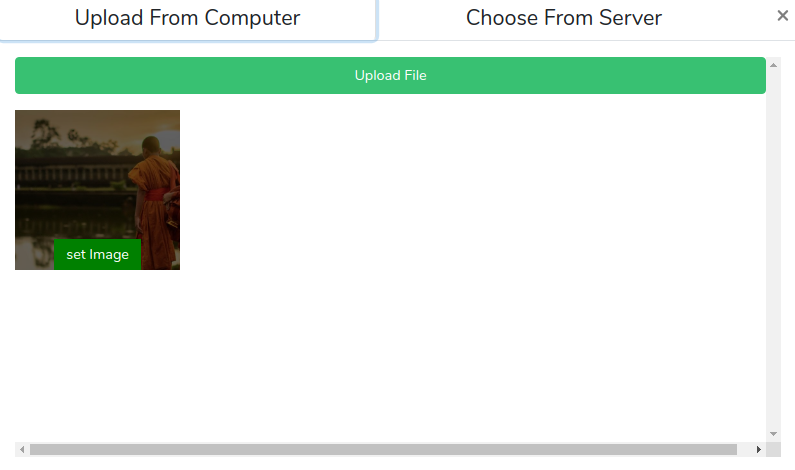
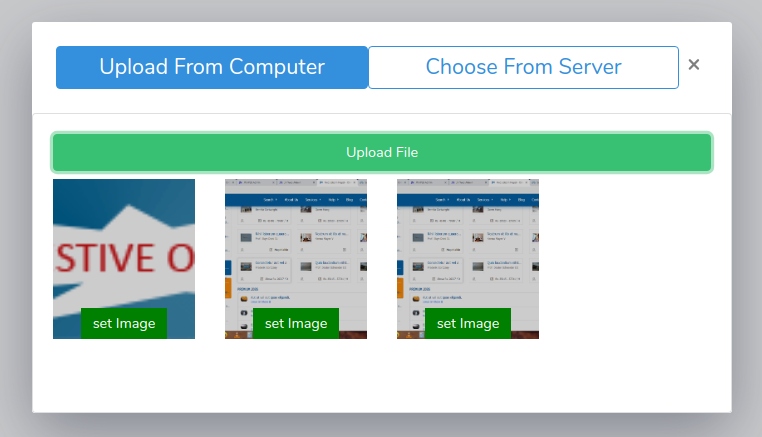
Plugin ui updated :zap:

diff --git a/components/FileUploader.vue b/components/FileUploader.vue
@@ -10,39 +10,47 @@
             v-on:change="handleFilesUpload()"
         />
         <button id="show-modal" @click="showModal()">Show Modal</button>
-        <b-modal
-            id="modal-lg"
-            size="lg"
-            title="Large Modal"
-            headerClass="p-0"
-            bodyClass="m-0"
-            v-model="modalState"
-            hide-footer
+        <modal
+            name="aammui-uploader-modal"
+            class="mb-2"
+            width="700px"
+            height="auto"
+            :minHeight="400"
+            :scrollable="true"
+            :pivotY="0.2"
         >
-            <div slot="modal-header" class="d-flex justify-content-between w-100">
+            <div class="d-flex justify-content-between w-100 p-4">
                 <div class="d-flex w-100">
                     <button
                         @click="uploaded=false"
-                        class="btn w-50 px-3 py-2"
-                        style="border-right:1px solid #dfdfdf"
+                        :class="{'btn-primary text-white':!uploaded}"
+                        class="btn btn-outline-primary w-50 px-3 py-2"
                     >
                         <h4 class="mb-0">Upload From Computer</h4>
                     </button>
-                    <button @click="uploaded=true" class="btn w-50 px-3 py-2">
+                    <button
+                        @click="uploaded=true"
+                        :class="{'btn-primary text-white':uploaded}"
+                        class="btn btn-outline-primary w-50 px-3 py-2"
+                    >
                         <h4 class="mb-0">Choose From Server</h4>
                     </button>
                 </div>
                 <div class="p-2">
-                    <button type="button" class="close" @click="modalState=false">×</button>
+                    <button type="button" class="close" @click="hideModal()">×</button>
                 </div>
             </div>
             <transition name="slide-fade">
-                <div v-if="uploaded==false" style="height:400px; overflow-y:scroll">
-                    <button class="btn btn-success w-100" @click="addFiles()">Upload File</button>
-                    <div class="row py-3">
+                <div
+                    class="container card card-body"
+                    v-if="uploaded==false"
+                    style="height:300px; overflow-y:auto"
+                >
+                    <button class="btn btn-success w-100 px-2" @click="addFiles()">Upload File</button>
+                    <div class="row my-2">
                         <div v-for="item in files" :key="item.id" class="col-md-3 mb-2">
                             <div
-                                :style="'background-image: url('+item.url+'); cursor: pointer;'"
+                                :style="'background-image: url('+item.url+'); cursor: pointer; background-color: rgba(0, 0, 0, 0.2);'"
                                 class="w-100 tw-h-10 tw-bg-i"
                                 @click="setSelected(item.data, item.uploaded)"
                             >
@@ -64,8 +72,12 @@
                         </div>
                     </div>
                 </div>
-                <div v-else style="height:400px; overflow-y:scroll">
-                    <div class="row">
+                <div
+                    class="container card card-body"
+                    v-else
+                    style="min-height:300px; overflow-y:auto"
+                >
+                    <div class="row my-2">
                         <div v-for="item in data" :key="item.id" class="col-md-3 mb-2">
                             <div
                                 :style="'background-image: url('+item.url+'); cursor: pointer;'"
@@ -81,10 +93,13 @@
                     </div>
                 </div>
             </transition>
-        </b-modal>
+        </modal>
     </div>
 </template>
 <script>
+import Vue from "vue";
+import VModal from "vue-js-modal/dist/ssr.index";
+Vue.use(VModal);
 import $ from "jquery";
 import { BModal, VBModal } from "bootstrap-vue";
 import { FileUpload } from "../FileUpload";
@@ -109,7 +124,7 @@ export default {
             if (status == false) return;
             this.selected.id = item.id;
             this.selected.link = item.url;
-            this.modalState = false;
+            this.hideModal();
             this.setPlaceholder(item.url);
         },
         setPlaceholder: function(url) {
@@ -117,8 +132,11 @@ export default {
             imgholder.innerHTML = '<img class="w-100" src="' + url + '" />';
         },
         showModal: function() {
-            this.modalState = true;
+            this.$modal.show("aammui-uploader-modal");
             this.fecthData();
+        },
+        hideModal: function() {
+            this.$modal.hide("aammui-uploader-modal");
         },
         fecthData: function() {
             axios
@@ -131,7 +149,6 @@ export default {
                 });
         }
     },
-    components: { "b-modal": BModal },
     mounted() {
         let vm = this;
         var elementToToggle = $(".modal-container");
@@ -158,7 +175,7 @@ export default {
     justify-content: space-between;
     width: 100%;
     height: 100%;
-    background: rgba(0, 0, 0, 0.6);
+    background: rgba(0, 0, 0, 0.2);
 }
 .tw-bg-i {
     background-position: center !important;

diff --git a/aammui-uploader.js b/aammui-uploader.js
@@ -1,3 +1,4 @@
+import VModal from 'vue-js-modal'
 import FileUploader from './components/FileUploader'
 
 // This is your plugin object. It can be exported to be used anywhere.
@@ -5,7 +6,8 @@ export default {
     // The install method is all that needs to exist on the plugin object.
     // It takes the global Vue object as well as user-defined options.
     install(Vue, options) {
-        Vue.component('file-uploader',FileUploader)
+        Vue.use(VModal)
+        Vue.component('file-uploader', FileUploader)
     }
 };
 
